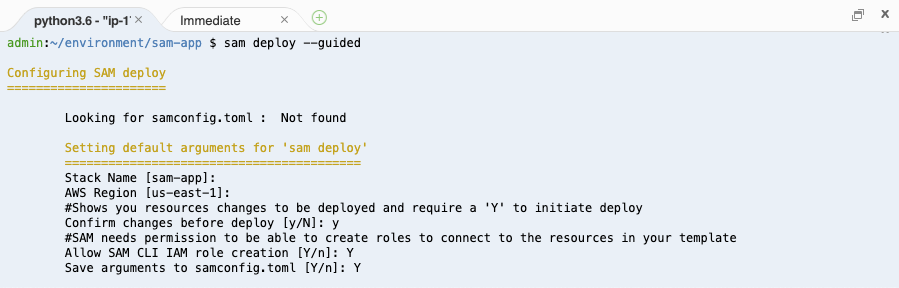
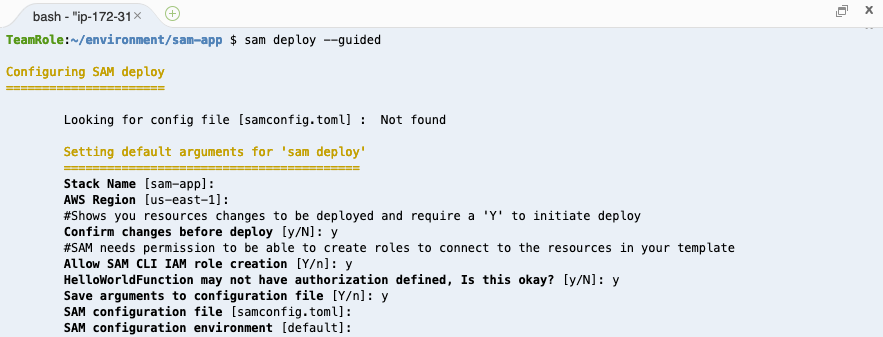
Fixed some issues I found during dry-run (#61)
* Link not working from setup instructions

* Remove GitHub download approval

In my testing it doesn't happen on AL2 Cloud9 on SAM CLI version 1.16.0

* git global config already preconfigured on Cloud9 AL2

* Use codecommit:// path for git remote

* Make resize.sh work on xfs volumes as well

* Commit the pipeline definition after creating it

Otherwise it is only pushed as part of the next lab section

* SAM deploy guided arguments have changed; updated screenshot

* Updated screenshot; was still showing node v10

* Some minor issues found by Thomas in his dry-run today

diff --git a/workshop/content/java/buildpipe/credhelper/_index.en.md b/workshop/content/java/buildpipe/credhelper/_index.en.md
@@ -6,14 +6,7 @@ weight = 10
 
 One of the cool things about CodeCommit is the support for IAM authentication. And if you are running this workshop from a Cloud9 workspace, you can leverage the fact that your terminal is already pre-authenticated with valid AWS credentials.
 
-Run the following commands from your terminal: 
-
-```
-git config --global credential.helper '!aws codecommit credential-helper $@'
-git config --global credential.UseHttpPath true
-```
-
-Now configure the git client with username and email, so your commits have an author defined.
+Configure the git client with username and email, so your commits have an author defined.
 
 ```
 git config --global user.name "Replace with your name"

diff --git a/workshop/content/java/buildpipe/gitpush/_index.en.md b/workshop/content/java/buildpipe/gitpush/_index.en.md
@@ -42,14 +42,10 @@ Example:
 ![GitCommit](/images/java/chapter4/gitpush/initial-commit.png)
 
 ### Push the code
-Add your CodeCommit repository URL as a _remote_ on your local git project. This is the `cloneUrlHttp` value that you got back after creating the repository in Step 1 of this chapter.
-
-{{% notice tip %}}
-If you can't find the CodeCommit repository URL, you can find it by running this command: `aws codecommit get-repository --repository-name sam-app`.
-{{% /notice %}}
+Add your CodeCommit repository URL as a _remote_ on your local git project.
 
 ```
-git remote add origin REPLACE_WITH_HTTP_CLONE_URL
+git remote add origin codecommit://sam-app
 ```
 
 {{% notice tip %}}

diff --git a/workshop/content/javascript/manualdeploy/deploy/_index.en.md b/workshop/content/javascript/manualdeploy/deploy/_index.en.md
@@ -34,7 +34,7 @@ The guided deployment does few things for you. Let's take a quick look at what h
 **1)** Your codebase gets packaged in a zip file.  
 **2)** SAM creates an S3 bucket in your account, if it doesn't already exist.  
 **3)** Zip file is uploaded to the S3 bucket.  
-**4)** SAM creates the [packaged template](/manualdeploy/bucket.html) that references the location of the zip file on S3.  
+**4)** SAM creates the [packaged template](/javascript/manualdeploy/bucket.html#the-packaged-template) that references the location of the zip file on S3.
 **5)** This template is also uploaded to the S3 bucket.  
 **6)** SAM starts the deployment via CloudFormation ChangeSets.  
 

diff --git a/workshop/content/javascript/setup/_index.en.md b/workshop/content/javascript/setup/_index.en.md
@@ -32,4 +32,4 @@ If you prefer to run the workshop from your local computer without using Cloud9,
 * [Git Client](https://git-scm.com/downloads) - To interact with the CodeCommit repository by pushing code changes.
 * [NodeJS and npm](https://www.npmjs.com/get-npm) - The sample app you will create is NodeJs-based.
 
-Once you have installed all requirements, you can start the workshop here: [Start workshop](/sam.html).
+Once you have installed all requirements, you can start the workshop here: [Start workshop](/javascript/sam.html).

diff --git a/workshop/content/javascript/buildpipe/done/_index.en.md b/workshop/content/javascript/buildpipe/done/_index.en.md
@@ -8,4 +8,14 @@ Let your pipline run every stage. After it finishes it will look all green like 
 
 ![VerifyPipelineRunning](/images/chapter4/screenshot-pipeline-verify-3.png)
 
+### Push the changes
+
+In the terminal, run the following commands from the root directory of your `sam-app` project.
+
+```
+git add .
+git commit -m "CI/CD Pipeline definition"
+git push
+```
+
 #### Congratulations! You have created a CI/CD pipeline for a Serverless application!

diff --git a/workshop/content/javascript/sam/init/_index.en.md b/workshop/content/javascript/sam/init/_index.en.md
@@ -25,9 +25,6 @@ It will prompt for project configuration parameters:
 #### Leave default `sam-app` for project name
 ![samInit](/images/screenshot-sam-init-2.png)
 
-#### Type `Y` to accept download from GitHub
-![samInit](/images/screenshot-sam-init-3.png)
-
 #### Type `1` to select the `Hello World Example`
 ![samInit](/images/screenshot-sam-init-5.png) 
 
